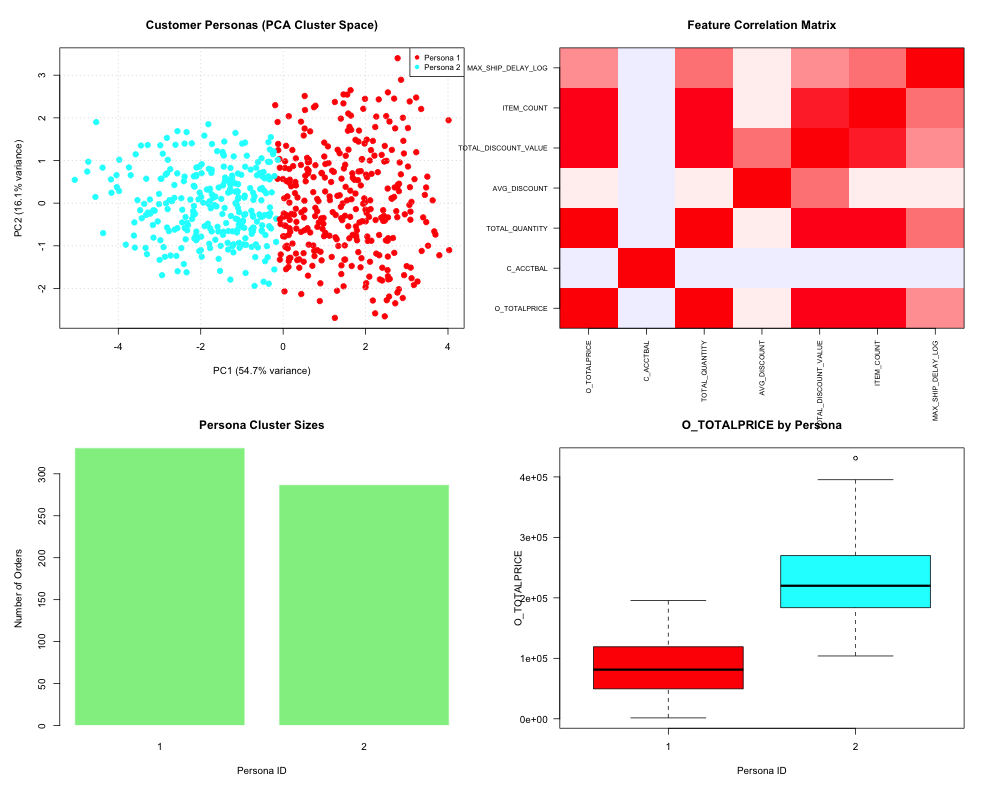
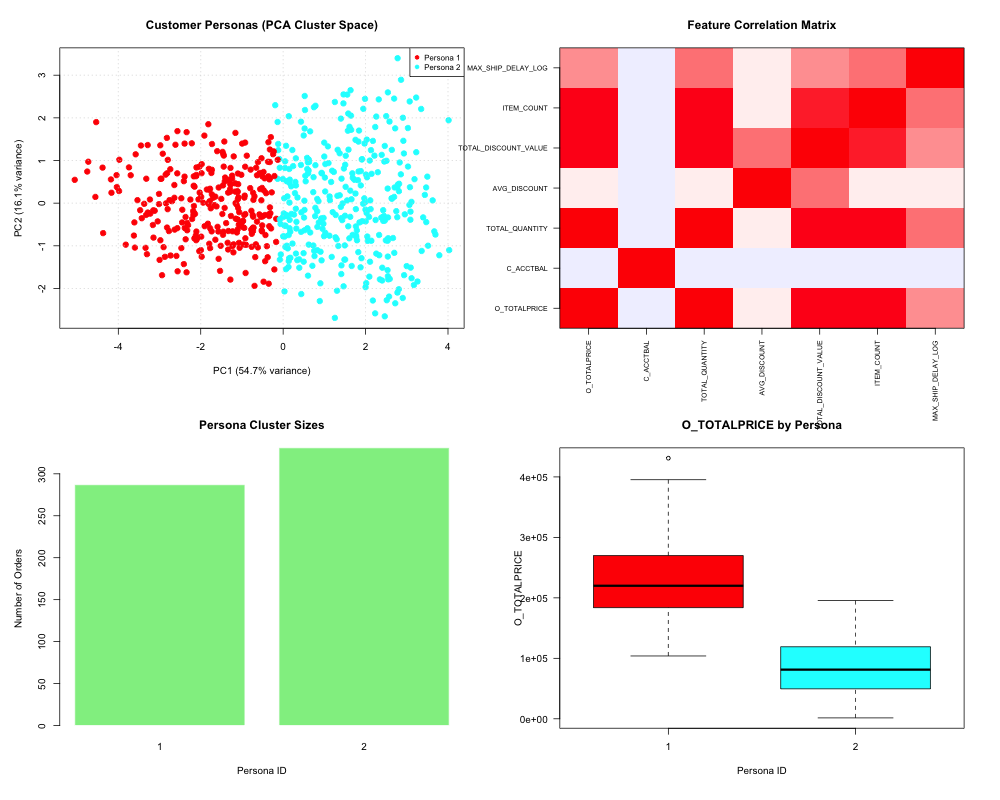
Add silhouette validation explanation to K-Means discussion

diff --git a/gen/customer_orders_nominal_audit_report.md b/gen/customer_orders_nominal_audit_report.md
@@ -1,6 +1,6 @@
 # Advanced SQL Data Quality and Behavior Analysis Lab Report: customer_orders_nominal
 
-**Report Generated on:** 2026-07-21 14:54:36.585735
+**Report Generated on:** 2026-07-21 15:02:48.190524
 **Source Dataset:** `customer_orders_nominal.csv`
 **Auditor Classification Status:** DANGER / FAIL 🔴
 
@@ -136,12 +136,12 @@ Figure 2 presents the pairwise scatterplots with a fitted linear regression line
 ![Figure 2: Pairwise Scatterplots with Line of Fit](customer_orders_nominal_scatterplots.png)
 
 ### Customer Persona Profiles (K-Means)
-We standardized the numeric metrics and fitted a [K-Means clustering algorithm](https://en.wikipedia.org/wiki/K-means_clustering) ($k=2$) to identify behavioral personas:
+We standardized the numeric metrics and fitted a [K-Means clustering algorithm](https://en.wikipedia.org/wiki/K-means_clustering) ($k=2$) to identify behavioral personas. To determine the optimal number of clusters programmatically, we performed a **[Silhouette Analysis](https://en.wikipedia.org/wiki/Silhouette_(clustering))** across candidate sizes of $k \in [2, 6]$. The optimal $k$ was selected by maximizing the average silhouette width (Rousseeuw, 1987), which measures cluster cohesion and separation. If the maximum average silhouette width was $\le 0.25$, indicating no substantial structure, the algorithm fell back to a single nominal cluster ($k=1$):
 
 | Persona Cluster | Order Count | Percentage (%) |
 |---|---|---|
-| **Cluster 1** | 331 | 53.56% |
-| **Cluster 2** | 287 | 46.44% |
+| **Cluster 1** | 287 | 46.44% |
+| **Cluster 2** | 331 | 53.56% |
 
 
 ## 4. Exploratory Multivariate Analysis and Cluster Diagnostics
@@ -177,6 +177,7 @@ As detailed in the references, response-time metrics are typically right-skewed 
 3. McConnell, P. A., Finetto, C., & Heise, K.-F. (2024). Methodological considerations for behavioral studies relying on response time outcomes through online crowdsourcing platforms. *Scientific Reports*, *14*(1), Article 7719. https://doi.org/10.1038/s41598-024-58300-7
 4. Pongratz, H., & Schoemann, M. (2026). A large-scale dataset of choice and response-time data in intertemporal choice. *Scientific Data*, *13*, Article 150. https://doi.org/10.1038/s41597-026-06947-4
 5. Transaction Processing Performance Council. (2014). *TPC Benchmark H: Standard specification* (Revision 2.17.1). https://www.tpc.org/tpc_documents_current_versions/pdf/tpc-h_v2.17.1.pdf
+6. Rousseeuw, P. J. (1987). Silhouettes: A graphical aid to the interpretation and validation of cluster analysis. *Journal of Computational and Applied Mathematics*, *20*, 53-65. https://doi.org/10.1016/0377-0427(87)90125-7
 
 ---
 

diff --git a/gen/customer_orders_anomalous_audit_report.md b/gen/customer_orders_anomalous_audit_report.md
@@ -1,6 +1,6 @@
 # Advanced SQL Data Quality and Behavior Analysis Lab Report: customer_orders_anomalous
 
-**Report Generated on:** 2026-07-21 14:54:37.505632
+**Report Generated on:** 2026-07-21 15:02:49.112196
 **Source Dataset:** `customer_orders_anomalous.csv`
 **Auditor Classification Status:** DANGER / FAIL 🔴
 
@@ -103,7 +103,7 @@ Figure 2 presents the pairwise scatterplots with a fitted linear regression line
 ![Figure 2: Pairwise Scatterplots with Line of Fit](customer_orders_anomalous_scatterplots.png)
 
 ### Customer Persona Profiles (K-Means)
-We standardized the numeric metrics and fitted a [K-Means clustering algorithm](https://en.wikipedia.org/wiki/K-means_clustering) ($k=2$) to identify behavioral personas:
+We standardized the numeric metrics and fitted a [K-Means clustering algorithm](https://en.wikipedia.org/wiki/K-means_clustering) ($k=2$) to identify behavioral personas. To determine the optimal number of clusters programmatically, we performed a **[Silhouette Analysis](https://en.wikipedia.org/wiki/Silhouette_(clustering))** across candidate sizes of $k \in [2, 6]$. The optimal $k$ was selected by maximizing the average silhouette width (Rousseeuw, 1987), which measures cluster cohesion and separation. If the maximum average silhouette width was $\le 0.25$, indicating no substantial structure, the algorithm fell back to a single nominal cluster ($k=1$):
 
 | Persona Cluster | Order Count | Percentage (%) |
 |---|---|---|
@@ -151,6 +151,7 @@ As detailed in the references, response-time metrics are typically right-skewed 
 3. McConnell, P. A., Finetto, C., & Heise, K.-F. (2024). Methodological considerations for behavioral studies relying on response time outcomes through online crowdsourcing platforms. *Scientific Reports*, *14*(1), Article 7719. https://doi.org/10.1038/s41598-024-58300-7
 4. Pongratz, H., & Schoemann, M. (2026). A large-scale dataset of choice and response-time data in intertemporal choice. *Scientific Data*, *13*, Article 150. https://doi.org/10.1038/s41597-026-06947-4
 5. Transaction Processing Performance Council. (2014). *TPC Benchmark H: Standard specification* (Revision 2.17.1). https://www.tpc.org/tpc_documents_current_versions/pdf/tpc-h_v2.17.1.pdf
+6. Rousseeuw, P. J. (1987). Silhouettes: A graphical aid to the interpretation and validation of cluster analysis. *Journal of Computational and Applied Mathematics*, *20*, 53-65. https://doi.org/10.1016/0377-0427(87)90125-7
 
 ---
 
